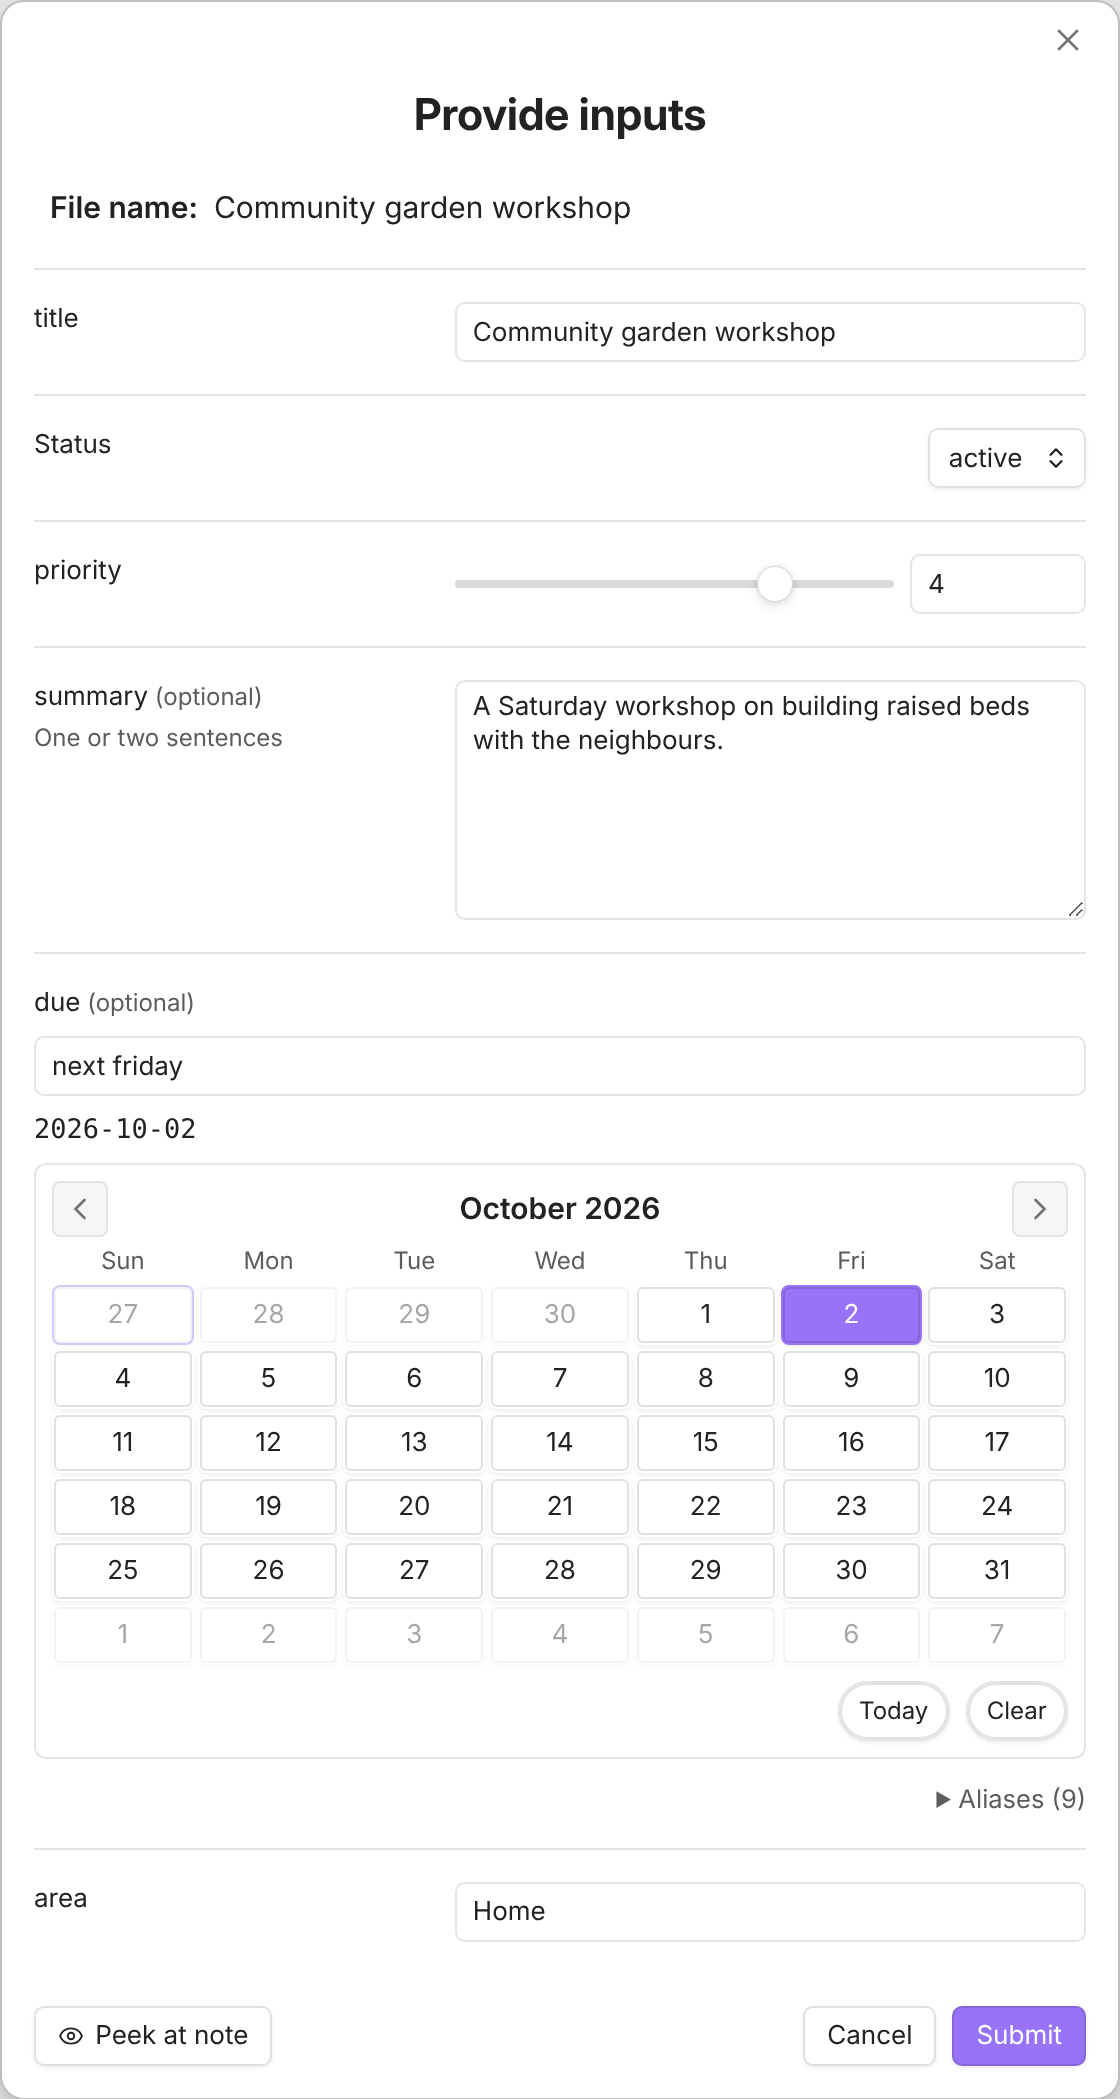
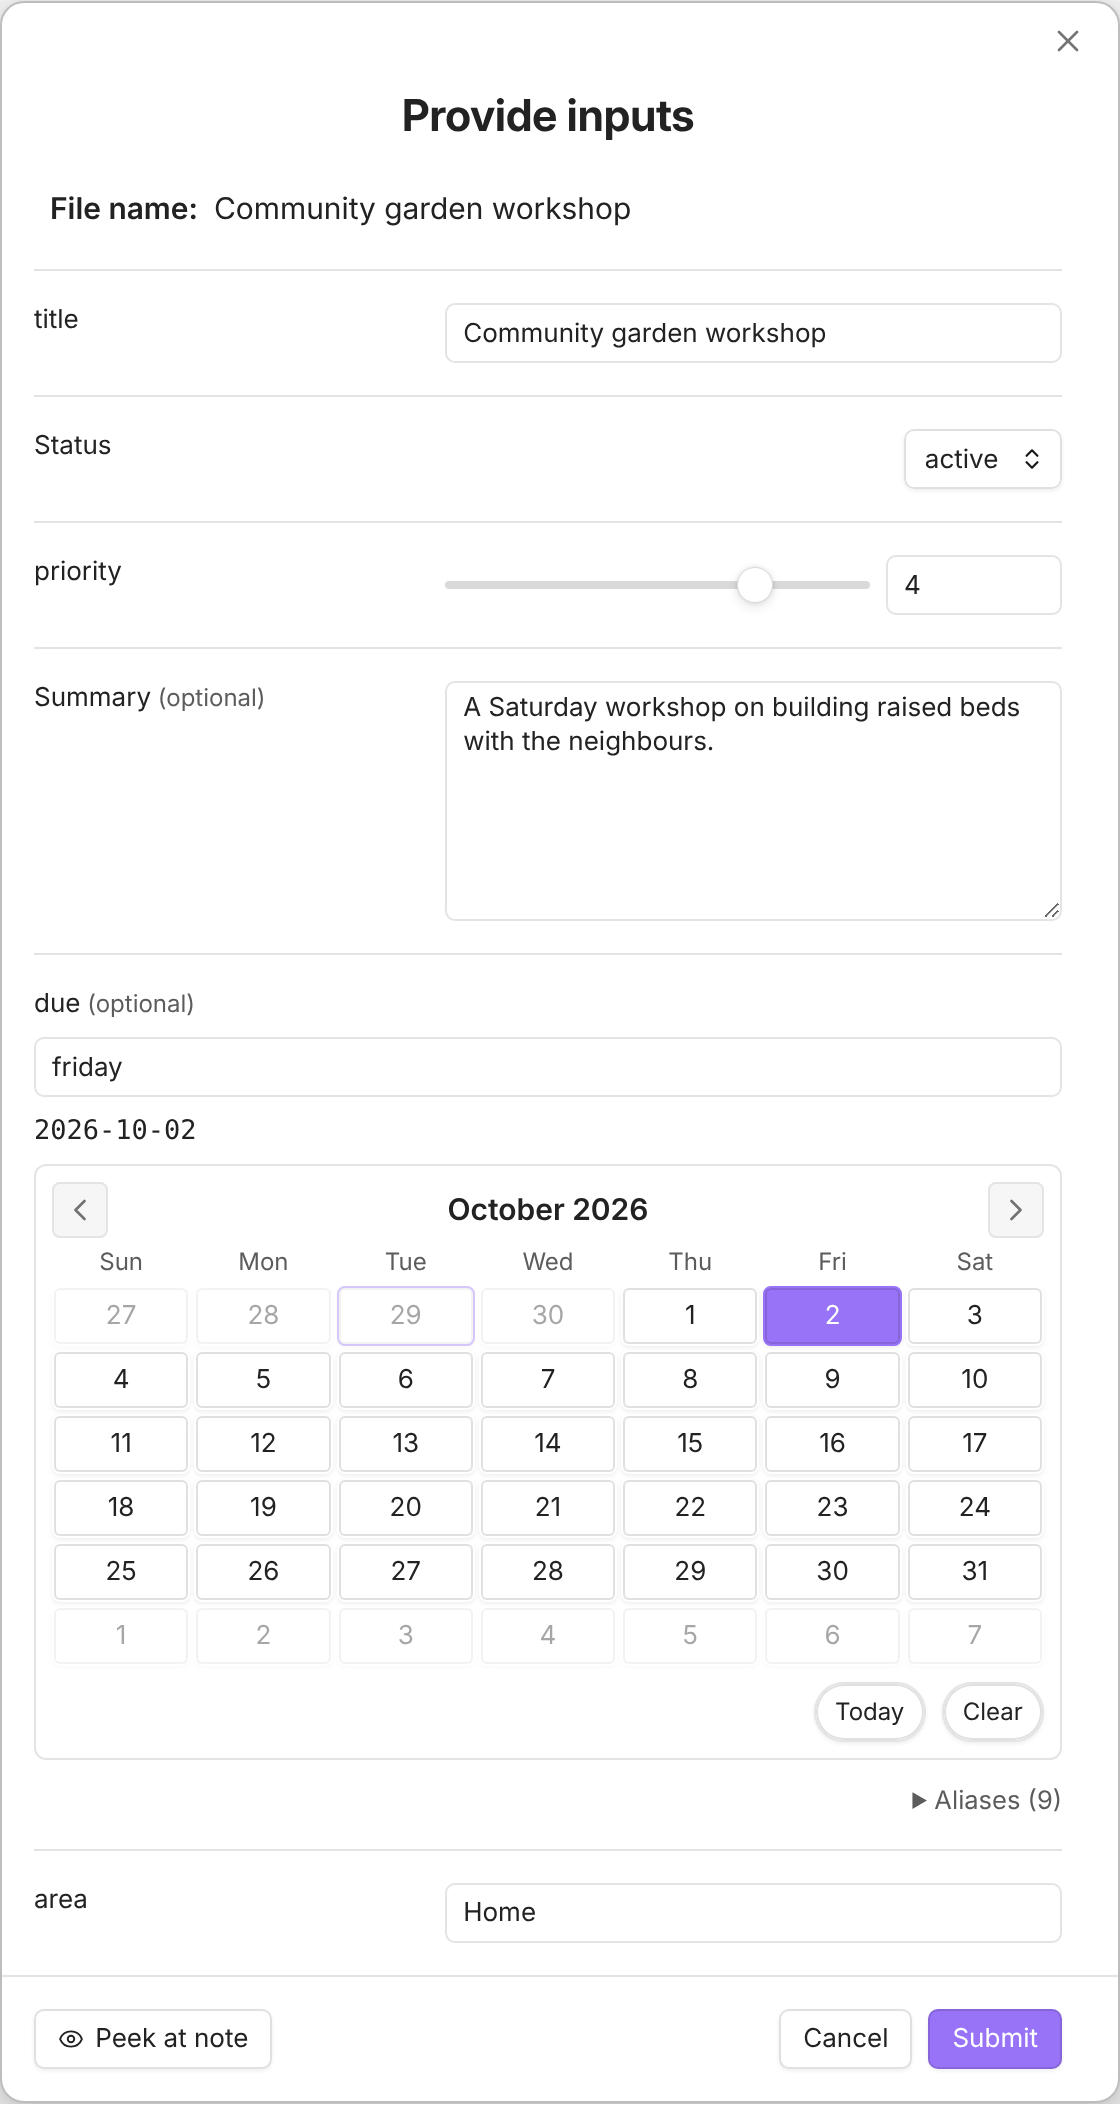
feat: let |label: title a named {{VALUE}} prompt (#1915)
* feat: let |label: title a named {{VALUE}} prompt

`{{VALUE:attendees|label:Who attended?}}` titled its prompt "attendees" and
showed the label as helper text below it. It is now titled "Who attended?",
like a FIELD, a VDATE, an unnamed VALUE, a checkbox VALUE and a pick list.
The one-page form names the field after the label with no helper line, and a
remote (Raycast) prompt, which never showed the label at all, is titled by it
too. The variable name is still the key, so `{{VALUE:attendees}}` reuses the
answer.

* docs: retake the one-page form screenshot with a Summary label

The summary field was labelled "One or two sentences", which showed as
helper text. Now that a named VALUE's label is its title, the field is
labelled "Summary". The date is typed as "friday" so it still previews
2026-10-02.

diff --git a/tests/e2e/prompt-labels.test.ts b/tests/e2e/prompt-labels.test.ts
@@ -4,8 +4,8 @@ import type IChoice from "../../src/types/choices/IChoice";
 import { createQuickAddE2EHarness } from "./e2eVault";
 import { POLL_OPTS, expectNoPrompt, pressKey, typeInto, waitForElement } from "./uiHelpers";
 
-// `|label:` names the prompt of a {{VDATE}} (#1869) and of an unnamed
-// {{VALUE}} (#1876), which have no other name for their title.
+// `|label:` names the prompt of a {{VDATE}} (#1869), an unnamed {{VALUE}}
+// (#1876) and a named single-value {{VALUE}}, in place of the variable name.
 const getContext = createQuickAddE2EHarness("prompt-labels");
 
 type QuickAddData = {
@@ -42,6 +42,22 @@ async function readPrompt(label: string) {
 	})()`);
 }
 
+/** Run a new Capture choice that writes `format` to `file`. */
+async function runCapture(file: string, format: string, onePage: boolean) {
+	const { obsidian, plugin, sandbox } = getContext();
+	const choice = new CaptureChoice(`Log ${file}`);
+	choice.command = true;
+	choice.captureTo = sandbox.path(file);
+	choice.createFileIfItDoesntExist = { ...choice.createFileIfItDoesntExist, enabled: true };
+	choice.format = { enabled: true, format };
+	await plugin.data<QuickAddData>().patch((data) => {
+		data.onePageInputEnabled = onePage;
+		data.choices.push(choice);
+	});
+	await plugin.reload({ waitUntilReady: true });
+	await obsidian.exec("command", { id: `quickadd:choice:${choice.id}` });
+}
+
 describe("|label: names the prompt", () => {
 	it("titles a VDATE prompt, and is never read as the default date (#1869)", async () => {
 		const { obsidian } = getContext();
@@ -63,18 +79,8 @@ describe("|label: names the prompt", () => {
 	});
 
 	it("titles an unnamed VALUE prompt instead of showing as helper text (#1876)", async () => {
-		const { obsidian, plugin, sandbox } = getContext();
-		const choice = new CaptureChoice("Log order");
-		choice.command = true;
-		choice.captureTo = sandbox.path("orders.md");
-		choice.createFileIfItDoesntExist = { ...choice.createFileIfItDoesntExist, enabled: true };
-		choice.format = { enabled: true, format: "### {{VALUE|label:What's the order?}}\n" };
-		await plugin.data<QuickAddData>().patch((data) => {
-			data.onePageInputEnabled = false;
-			data.choices.push(choice);
-		});
-		await plugin.reload({ waitUntilReady: true });
-		await obsidian.exec("command", { id: `quickadd:choice:${choice.id}` });
+		const { obsidian, sandbox } = getContext();
+		await runCapture("orders.md", "### {{VALUE|label:What's the order?}}\n", false);
 
 		expect(await readPrompt("What's the order?")).toMatchObject({
 			title: "What's the order?",
@@ -85,5 +91,33 @@ describe("|label: names the prompt", () => {
 		await expectNoPrompt(obsidian);
 		await expect.poll(() => sandbox.read("orders.md").catch(() => ""), POLL_OPTS)
 			.toBe("### 48 speckled sage mugs\n");
+	});
+
+	it("titles a named VALUE prompt, where it used to be helper text under the name", async () => {
+		const { obsidian, sandbox } = getContext();
+		await runCapture("meeting prompt.md", "- attendees: {{VALUE:attendees|label:Who attended?}}\n", false);
+
+		const prompt = await readPrompt("Who attended?");
+		expect(prompt).toMatchObject({ title: "Who attended?", labelCount: 1 });
+		await typeInto(obsidian, PROMPT_INPUT, "Ada, Grace");
+		await pressKey(obsidian, "Enter");
+		await expectNoPrompt(obsidian);
+		await expect.poll(() => sandbox.read("meeting prompt.md").catch(() => ""), POLL_OPTS)
+			.toBe("- attendees: Ada, Grace\n");
+	});
+
+	it("names a named VALUE's one-page field, with no helper text", async () => {
+		const { obsidian, sandbox } = getContext();
+		await runCapture("meeting form.md", "- attendees: {{VALUE:attendees|label:Who attended?}}\n", true);
+
+		await waitForElement(obsidian, ".onePageInputModal");
+		expect(await obsidian.dev.evalJson<{ name: string; description: string }[]>(
+			'Array.from(document.querySelectorAll(".onePageInputModal .setting-item")).filter((row) => row.querySelector("input")).map((row) => ({ name: row.querySelector(".setting-item-name")?.textContent ?? "", description: row.querySelector(".setting-item-description")?.textContent ?? "" }))',
+		)).toEqual([{ name: "Who attended?", description: "" }]);
+		await typeInto(obsidian, '.onePageInputModal input[aria-labelledby="qa-onepage-label-attendees"]', "Ada, Grace");
+		await pressKey(obsidian, "Enter", true);
+		await expectNoPrompt(obsidian);
+		await expect.poll(() => sandbox.read("meeting form.md").catch(() => ""), POLL_OPTS)
+			.toBe("- attendees: Ada, Grace\n");
 	});
 });

diff --git a/src/formatters/helpers/valuePrompts.ts b/src/formatters/helpers/valuePrompts.ts
@@ -42,13 +42,13 @@ export async function promptForVariable(runtime: PromptRuntime, header?: string,
 				await provider.suggester(
 					["true", "false"],
 					["true", "false"],
-					context.description ?? header ?? context.label ?? "Choose value",
+					context.label ?? header ?? "Choose value",
 					false,
 				),
 			);
 		}
 		return await provider.inputPrompt(
-			header ?? context?.label ?? "Enter value",
+			context?.label ?? header ?? "Enter value",
 			context?.placeholder,
 			context?.defaultValue,
 		);
@@ -57,10 +57,9 @@ export async function promptForVariable(runtime: PromptRuntime, header?: string,
 		header ? `{{VALUE:${header}}}` : "a template variable",
 	);
 	try {
-		// Named prompts already title themselves with the variable name, so they
-		// only gain the run context: which choice is asking, and where the
-		// answer lands (issue #1546).
-		// A VDATE's |label: names its prompt; the variable name is only its key.
+		// A |label: names the prompt; otherwise the variable name does. The name
+		// stays the variable's key either way. The context line adds which choice
+		// is asking and where the answer lands (issue #1546).
 		const variableTitle = context?.label ?? header ?? "Enter value";
 		const showDestination = scopeShowsDestination(runtime.scope);
 		const namedContextLine = buildPromptContextLine(
@@ -96,14 +95,14 @@ export async function promptForVariable(runtime: PromptRuntime, header?: string,
 
 		// {{VALUE:x|type:checkbox}} renders a forced true/false picker (no
 		// free text) so the written `x: true` round-trips as a Checkbox. The
-		// |label (carried as description for single-value tokens) becomes the
-		// modal title so the user knows which property they are setting (#202).
+		// |label becomes the picker's title so the user knows which property
+		// they are setting (#202).
 		if (context?.inputTypeOverride === "checkbox") {
 			return await GenericSuggester.Suggest(
 				runtime.app,
 				["true", "false"],
 				["true", "false"],
-				context.description ?? header ?? context.label ?? "Choose value",
+				context.label ?? header ?? "Choose value",
 				undefined,
 				context.optional ? { skippable: true } : undefined,
 			);
@@ -116,7 +115,7 @@ export async function promptForVariable(runtime: PromptRuntime, header?: string,
 			context?.placeholder ??
 				(context?.defaultValue ? context.defaultValue : undefined),
 			context?.defaultValue,
-			context?.description,
+			undefined,
 			runtime.buildInputPromptOptions(
 				context,
 				namedContextLine,

diff --git a/src/preflight/RequirementCollector.ts b/src/preflight/RequirementCollector.ts
@@ -267,8 +267,7 @@ export class RequirementCollector extends Formatter {
 
 			if (!variableName) continue;
 
-			const displayLabel = hasOptions && label ? label : variableName;
-			const description = !hasOptions && label ? label : undefined;
+			const displayLabel = label ?? variableName;
 			const requirementId = variableKey;
 
 			// A VDATE with this name asks first at run time, which matches names
@@ -289,7 +288,6 @@ export class RequirementCollector extends Formatter {
 					id: requirementId,
 					label: displayLabel,
 					type: hasOptions ? this.optionFieldType(parsed) : inputType,
-					description,
 					optional: parsed.optional,
 				};
 				if (hasOptions) this.applyOptionFields(req, parsed);
@@ -541,9 +539,8 @@ export class RequirementCollector extends Formatter {
 			const type = hasOptions ? "dropdown" : this.inputFieldType(context);
 			const req: FieldRequirement = {
 				id: key,
-				label: variableName,
+				label: context?.label ?? variableName,
 				type,
-				description: context?.description,
 				numericConfig: context?.numericConfig,
 				sliderConfig: context?.sliderConfig,
 				source: "collected",

diff --git a/src/formatters/valueFormatter.ts b/src/formatters/valueFormatter.ts
@@ -43,7 +43,6 @@ export interface PromptContext {
 	dateFormat?: string;
 	defaultValue?: string;
 	label?: string;
-	description?: string;
 	placeholder?: string;
 	variableKey?: string;
 	inputTypeOverride?: ValueInputType; // Undefined means use global input prompt setting.
@@ -508,7 +507,6 @@ export abstract class ValueFormatter {
 
 		if (resolvedKey) return resolvedKey;
 
-		const helperText = !hasOptions && label ? label : undefined;
 		// A picker in a property Capture is answering for that property, so it is named after it.
 		const propertyKey = this.promptScope === "propertyValue" ? this.variables.get("propertyKey") : undefined;
 		const suggesterPlaceholder = hasOptions
@@ -541,7 +539,7 @@ export abstract class ValueFormatter {
 			// For single-value prompts, pass default value to pre-populate the input
 			variableValue = await this.promptForVariable(variableName, {
 				defaultValue,
-				description: helperText,
+				label,
 				inputTypeOverride: parsed.inputTypeOverride,
 				numericConfig: parsed.numericConfig,
 				sliderConfig: parsed.sliderConfig,

diff --git a/src/formatters/formatSyntax.docs-examples.test.ts b/src/formatters/formatSyntax.docs-examples.test.ts
@@ -18,7 +18,7 @@ const CURRENT_AND_2120_EXAMPLES = [
 	"- [ ] Throw and trim 📅 {{VDATE:due,YYYY-MM-DD}}\n- [ ] Glaze fire 📅 {{VALUE:due}}",
 	"- [ ] {{VALUE|label:Task}}",
 	"---\ntitle: {{VALUE:title}}\n---\n# {{VALUE:title}}",
-	"{{VALUE:project|label:Client or project name}}",
+	"{{VALUE:project|label:Which client or project?}}",
 	"priority: {{VALUE:🔽,🔼,⏫|text:Low,Normal,High}}",
 	'{{VALUE:"This is a single choice, with a comma",Second choice}}',
 	'priority: {{VALUE:high,"a, b"|text:"High, urgent","A or B"}}',
@@ -329,11 +329,11 @@ describe("Format Syntax documentation examples", () => {
 			dateFormat: "YYYY-MM-DD",
 		});
 		expect(collector.requirements.get("project")).toMatchObject({
-			description: "Client or project name",
+			label: "Which client or project?",
 			type: "text",
 		});
 		expect(collector.requirements.get("summary")).toMatchObject({
-			description: "Summary",
+			label: "Summary",
 			type: "textarea",
 		});
 		expect(collector.requirements.get("status")).toMatchObject({

diff --git a/src/formatters/completeFormatter.promptContext.test.ts b/src/formatters/completeFormatter.promptContext.test.ts
@@ -284,6 +284,29 @@ describe("forced true/false picker", () => {
 	});
 });
 
+describe("named {{VALUE}} prompt copy", () => {
+	it("is titled by its |label:, not the variable name with the label as helper text", async () => {
+		const f = makeFormatter();
+		f.setPromptRunContext({ choiceName: "Log meeting" });
+
+		await f.formatFileContent("{{VALUE:attendees|label:Who attended?}}");
+
+		expect(lastPromptCall()).toMatchObject({
+			header: "Who attended?",
+			options: { contextLine: "Log meeting" },
+		});
+		expect((mocks.prompt.mock.calls.at(-1) as unknown[])[4]).toBeUndefined();
+	});
+
+	it("is titled by its variable name without a label", async () => {
+		const f = makeFormatter();
+
+		await f.formatFileContent("{{VALUE:attendees}}");
+
+		expect(lastPromptCall()).toMatchObject({ header: "attendees" });
+	});
+});
+
 describe("{{VDATE}} prompt copy", () => {
 	it("is titled by its |label:, which is never read as the default (#1869)", async () => {
 		const f = makeFormatter();

diff --git a/src/preflight/RequirementCollector.test.ts b/src/preflight/RequirementCollector.test.ts
@@ -34,14 +34,16 @@ describe("RequirementCollector", () => {
     const rc = createCollector();
     const multiToken = "low,medium,high|label:Priority";
     await rc.scanString(
-      `{{VALUE:title|label:Snake cased name}} and {{VALUE:${multiToken}}}`,
+      `{{VALUE:title|label:Snake cased name}} and {{VALUE:${multiToken}}} {{VALUE:done|type:checkbox|label:Completed?}}`,
     );
 
     const reqs = Array.from(rc.requirements.values());
     const byId = Object.fromEntries(reqs.map((r) => [r.id, r]));
 
-    expect(byId["title"].label).toBe("title");
-    expect(byId["title"].description).toBe("Snake cased name");
+    expect(byId["title"].label).toBe("Snake cased name");
+    expect(byId["title"].description).toBeUndefined();
+    // The run titles a checkbox picker with its label too.
+    expect(byId["done"]).toMatchObject({ label: "Completed?", type: "dropdown" });
     const variableKey = buildValueVariableKey(
       "low,medium,high",
       "Priority",

diff --git a/src/formatters/completeFormatter.test.ts b/src/formatters/completeFormatter.test.ts
@@ -2140,6 +2140,21 @@ describe("CompleteFormatter - remote prompt provider routing", () => {
 		expect(mocks.inputPromptPrompt).not.toHaveBeenCalled();
 	});
 
+	it("titles a named {{VALUE:name}} provider prompt with its |label:", async () => {
+		const inputPrompt = vi.fn(async (_header: string) => "Ada, Grace");
+		const suggester = vi.fn(
+			async (_display: string[], _actual: string[], _placeholder?: string) => "true",
+		);
+		const f = providerFormatter({ inputPrompt, suggester });
+
+		await f.formatFolderPath(
+			"{{VALUE:attendees|label:Who attended?}} {{VALUE:done|type:checkbox|label:Completed?}}",
+		);
+
+		expect(inputPrompt.mock.calls[0]?.[0]).toBe("Who attended?");
+		expect(suggester.mock.calls[0]?.[2]).toBe("Completed?");
+	});
+
 	it("routes {{VALUE:a,b,c|multi}} to the provider's suggesterMulti, not the Obsidian modal", async () => {
 		const suggesterMulti = vi.fn(
 			async (_display: string[], _actual: string[]) => ["a", "c"],

diff --git a/docs/src/content/docs/docs/ControllingPrompts.md b/docs/src/content/docs/docs/ControllingPrompts.md
@@ -47,7 +47,7 @@ Each control is a flag you add to the placeholder. The most common ones:
 
 | You want | Flag | Example |
 | --- | --- | --- |
-| Helper text on the prompt | [`\|label:`](/docs/FormatSyntax/#value-label) | `{{VALUE:attendees\|label:Comma-separated names}}` |
+| Your own wording for the prompt | [`\|label:`](/docs/FormatSyntax/#value-label) | `{{VALUE:attendees\|label:Who attended?}}` |
 | A pre-filled default | [`\|default:`](/docs/FormatSyntax/#value-default-option) | `{{VALUE:status\|default:open}}` |
 | A large, multi-line text box | [`\|type:multiline`](/docs/FormatSyntax/#value-multiline) | `{{VALUE:notes\|type:multiline}}` |
 | A number, slider, or checkbox | [`\|type:number` and friends](/docs/FormatSyntax/#value-property-types) | `{{VALUE:rating\|type:slider\|min:0\|max:10}}` |
@@ -59,7 +59,7 @@ The full reference for every flag lives in [Format Syntax](/docs/FormatSyntax/).
 
 Good to know:
 
-- `|label:` works on `{{VALUE}}` placeholders, [`{{VDATE:...}}`](/docs/FormatSyntax/#vdate-label) dates, [`{{FIELD:...}}`](/docs/FormatSyntax/#field-label) suggestions, and [`{{FILE:...}}`](/docs/FormatSyntax/#file) pickers. It names the prompt: it titles a date prompt and an unnamed `{{VALUE}}` prompt, and becomes a pick list's placeholder. On a named text prompt like `{{VALUE:attendees|label:...}}`, the name stays the title and the label shows as helper text below it. A FIELD label also titles the text prompt you get when the property has no values yet.
+- `|label:` works on `{{VALUE}}` placeholders, [`{{VDATE:...}}`](/docs/FormatSyntax/#vdate-label) dates, [`{{FIELD:...}}`](/docs/FormatSyntax/#field-label) suggestions, and [`{{FILE:...}}`](/docs/FormatSyntax/#file) pickers. It names the prompt: it titles a text or date prompt in place of the variable name, names the field in the one-page form, and becomes a pick list's placeholder. The variable name still identifies the answer for reuse. A FIELD label also titles the text prompt you get when the property has no values yet.
 - `|type:multiline` upgrades a single placeholder to the large text box and overrides the global **Use multi-line input prompt** setting. There is no reverse flag: with the global setting on, every plain text prompt is already multi-line.
 - `|type:` flags only work on single-value placeholders. A pick list ignores them.
 

diff --git a/docs/src/content/docs/docs/FormatSyntax.md b/docs/src/content/docs/docs/FormatSyntax.md
@@ -510,14 +510,20 @@ Good to know:
 These options work on text prompts and pickers alike. Combine them freely:
 `{{VALUE:title|label:Note title|default:Untitled}}`.
 
-#### Add helper text: `|label:` {#value-label}
+#### Name the prompt: `|label:` {#value-label}
 
-`{{VALUE:project|label:Client or project name}}` shows the helper text below
-the prompt's header - handy for instructions or reminders. On an option list,
-the label titles the picker: `{{VALUE:Red,Green,Blue|label:Pick a color}}`.
-An unnamed `{{VALUE|label:What's the order?}}` has no name for a header, so
-the label is its title, in the prompt, the one-page form and the builder's
-preview (QuickAdd 2.30.0 or later).
+`{{VALUE:project|label:Which client or project?}}` asks "Which client or
+project?" instead of "project", in the prompt and in the
+[one-page input form](/docs/Advanced/onePageInputs/). The name is still the
+variable, so `{{VALUE:project}}` reuses the answer. On an option list, the
+label titles the picker: `{{VALUE:Red,Green,Blue|label:Pick a color}}`. An
+unnamed `{{VALUE|label:What's the order?}}` also shows its label in the
+builder's preview.
+
+Before QuickAdd 2.30.0, a named prompt kept its name as the title and showed
+the label as helper text below it. If you wrote a label as an instruction,
+such as `|label:Comma-separated names`, reword it as the question you want
+asked.
 
 #### Pre-fill a default: `|<default>` {#value-default}
 

diff --git a/docs/src/content/docs/docs/Advanced/onePageInputs.md b/docs/src/content/docs/docs/Advanced/onePageInputs.md
@@ -10,7 +10,7 @@ runs. This is nicer when a choice asks for several things at once - a title, a
 date, and a status, say - and you would rather see them all together than click
 through them one by one.
 
-![The one-page Provide inputs form for a New project Template choice. It shows the file name preview "Community garden workshop", a title field, a Status dropdown set to active, a priority slider at 4, an optional summary textarea with the helper text "One or two sentences", an optional due date field where "next friday" previews as 2026-10-02 above a calendar, and an area field filled with Home](../Images/one-page-input-form.png)
+![The one-page Provide inputs form for a New project Template choice. It shows the file name preview "Community garden workshop", a title field, a Status dropdown set to active, a priority slider at 4, an optional Summary textarea, an optional due date field where "friday" previews as 2026-10-02 above a calendar, and an area field filled with Home](../Images/one-page-input-form.png)
 
 For a task-oriented overview of prompts in general, see
 [Controlling Prompts](/docs/ControllingPrompts/).
